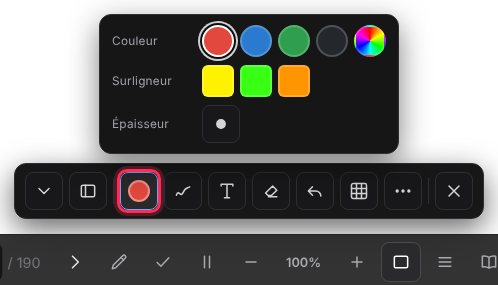
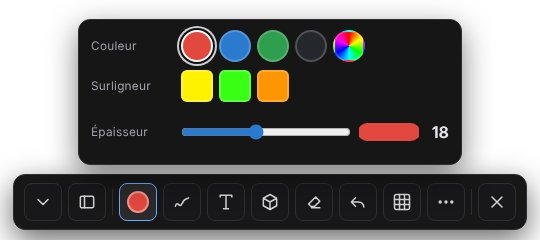
Crayon : activer/désactiver, épaisseur avec une glissière
Claude-Session: https://claude.ai/code/session_0132P7fSy2K8VC3HWdnHumMj

diff --git a/index.html b/index.html
@@ -550,6 +550,7 @@
   .penbar .ppop[hidden]{display:none!important}
   .penbar .prang{display:flex;gap:6px;align-items:center;flex-wrap:wrap}
   .penbar .prang[hidden]{display:none!important}
+  .penbar .plarg{display:flex;align-items:center;gap:8px;flex:1;min-width:260px}.penbar .plarg input{flex:1;min-width:170px;height:34px;accent-color:#2a7bcf;cursor:pointer}.penbar .plarg b{min-width:22px;text-align:right;color:#e4e4e7}
   .penbar .prang>.lab{font-size:.74rem;color:#a1a1aa;min-width:84px;letter-spacing:.02em}
   .penbar .ppop button[data-lab]{gap:6px;padding:0 10px}
   .penbar .ppop button[data-lab]::after{content:attr(data-lab);font-size:.82rem}
@@ -3378,6 +3379,7 @@ function majObjUI(){ const b = $("#objBar"); if (!b) return; b.hidden = !RD.obj;
     if (!(RD.pen || RD.wb) || RD.sim) return;
     c.setPointerCapture(e.pointerId);
     if (RD.eraser){ cur = "erase"; eraseAt(pt(e)); return; }
+    if (RD.crayonOff && !RD.text && !RD.obj){ e.preventDefault(); return; }               /* crayon désactivé : rien ne se dessine */
     if (RD.text || (RD.obj && RD.objTab !== "formes")){ e.preventDefault(); return; }
     const q = pt(e);
     if (RD.obj){ const brut = (r => [(e.clientX - r.left) / r.width, (e.clientY - r.top) / r.height])(c.getBoundingClientRect()), ip = poigneeSous(SELO.s, brut);
@@ -3391,7 +3393,7 @@ function majObjUI(){ const b = $("#objBar"); if (!b) return; b.hidden = !RD.obj;
         if (SELO.s){ SELO.s = null; redrawInk(); majObjUI(); } e.preventDefault(); return; }
       var choisir = hit || obj;     /* forme pas encore choisie : un simple clic la choisit, mais glisser trace une nouvelle forme (ex. une cote qui part du coin d'un rectangle) */
       var raz = !!SELO.s; if (SELO.s){ SELO.s = null; majObjUI(); } }
-    cur = { c:/^hl/.test(RD.color) ? "#000" : RD.color, hl:/^hl/.test(RD.color), hc:/^hl:/.test(RD.color) ? RD.color.slice(3) : null, w:WIDTHS[RD.wIdx], p:[q] };
+    cur = { c:/^hl/.test(RD.color) ? "#000" : RD.color, hl:/^hl/.test(RD.color), hc:/^hl:/.test(RD.color) ? RD.color.slice(3) : null, w:RD.wPx || WIDTHS[RD.wIdx], p:[q] };
     const forme = RD.obj && RD.formeK ? RD.formeK : RD.shape;
     if (forme){ cur.t = forme; cur.p = [q, q]; if (RD.obj && RD.formeK && choisir) cur.choisir = choisir; if (RD.obj && RD.formeK && raz && !choisir) cur.raz = true; if (forme === "bulle") cur.n = strokes().filter(x => x.t === "bulle").length + 1; }
     /* Trait en cours, rapide : on garde une image de tout le reste et, à chaque image, on redessine seulement le trait en cours par-dessus */
@@ -3811,14 +3813,14 @@ $("#tbPg").addEventListener("keydown", e => {
 (function(){
   const bar = $("#penBar"), ref = bar.querySelector(".sep");
   const x = document.createElement("input"); x.type = "color"; x.className = "swx"; x.value = "#ff00aa"; x.title = "Autre couleur"; x.setAttribute("aria-label", "Autre couleur");
-  x.oninput = () => { RD.color = x.value; RD.eraser = false; recolorerSel(); refreshTools(); x.classList.add("on"); };
+  x.oninput = () => { RD.color = x.value; RD.eraser = false; RD.crayonOff = false; recolorerSel(); refreshTools(); x.classList.add("on"); };
   bar.insertBefore(x, ref); RD.swx = x;
 })();
 function recolorerSel(){ const o = typeof SELO !== "undefined" && RD.obj && SELO.s && strokes().includes(SELO.s) ? SELO.s : null; if (!o || /^hl/.test(RD.color) || o.c === RD.color) return; snapInk(); o.c = RD.color; redrawInk(); }   /* l'objet ou la forme choisi prend la couleur du crayon */
-document.querySelectorAll("#penBar .sw").forEach(b => b.onclick = () => { RD.color = b.dataset.c; RD.eraser = false; recolorerSel(); refreshTools(); });
+document.querySelectorAll("#penBar .sw").forEach(b => b.onclick = () => { RD.color = b.dataset.c; RD.eraser = false; RD.crayonOff = false; recolorerSel(); refreshTools(); });
 $("#penW").onclick = () => { RD.wIdx = (RD.wIdx + 1) % WIDTHS.length; majEpaisseur(); };
 function majEpaisseur(){ const c = $("#penW circle"); if (c) c.setAttribute("r", 2.5 + RD.wIdx * 2.5); }
-$("#penS").onclick = () => { const i = SHAPES.indexOf(RD.shape || null); RD.shape = SHAPES[(i + 1) % SHAPES.length]; RD.eraser = false; RD.text = false; refreshTools(); };
+$("#penS").onclick = () => { const i = SHAPES.indexOf(RD.shape || null); RD.shape = SHAPES[(i + 1) % SHAPES.length]; RD.eraser = false; RD.text = false; RD.crayonOff = false; refreshTools(); };
 $("#wbF").onclick = wbFondSuivant; $("#wbP").onclick = () => wbAller(-1); $("#wbN").onclick = () => wbAller(1); $("#wbPlus").onclick = wbNouveau; $("#wbS").onclick = wbEnregistrer;
 [["penW","dot"],["wbHand","main"],["penE","eraser"],["penU","undo"],["penO","objet"],["wbZo","zmoins"],["wbZi","zplus"],["penT","texte"],["penR","redo"],["penC","trash"],["penX","close"],["wbF","fond"],["wbP","prev"],["wbN","next"],["wbPlus","plus"],["wbS","save"]].forEach(([id, n]) => setIcn($("#" + id), n));
 majEpaisseur();
@@ -3865,7 +3867,14 @@ majEpaisseur();
   pc.appendChild(rang("Couleur", [...bar.querySelectorAll(".sw")]));
   pc.appendChild(rang("Surligneur", [...pc.querySelectorAll(".sw.hl")]));
   if (RD.swx) pc.querySelector(".prang").appendChild(RD.swx);
-  pc.appendChild(rang("Épaisseur", [X("penW")]));
+  /* épaisseur : une glissière (1 à 40) avec un aperçu du trait */
+  try { RD.wPx = +localStorage.getItem("penLargeur") || 4; } catch(e){ RD.wPx = 4; }
+  const lg = document.createElement("div"); lg.className = "plarg";
+  lg.innerHTML = '<input type="range" min="1" max="40" step="1" aria-label="Épaisseur du trait"><svg viewBox="0 0 60 44" width="60" height="44" aria-hidden="true"><line x1="8" y1="22" x2="52" y2="22" stroke-linecap="round"/></svg><b></b>';
+  const lgI = lg.querySelector("input"), lgL = lg.querySelector("line"), lgB = lg.querySelector("b");
+  window.majLargeur = () => { const c = RD.color || "#e2483d"; lgI.value = RD.wPx; lgB.textContent = RD.wPx; lgL.setAttribute("stroke-width", Math.min(40, RD.wPx)); lgL.setAttribute("stroke", /^hl:/.test(c) ? c.slice(3) : c); };
+  lgI.addEventListener("input", () => { RD.wPx = +lgI.value; RD.crayonOff = false; try { localStorage.setItem("penLargeur", RD.wPx); } catch(e){} majLargeur(); refreshTools(); });
+  pc.appendChild(rang("Épaisseur", [lg])); majLargeur(); if (X("penW")) X("penW").remove();   /* l'ancien bouton à 3 grosseurs est remplacé par la glissière */
   /* Plus */
   const bp = document.createElement("button"); bp.id = "penPlus"; bp.title = "Plus d'outils : rétablir, tout effacer, zoom, tableaux, enregistrer"; bp.setAttribute("aria-label", "Plus d'outils"); bp.innerHTML = dots;
   const pp = pop("popPlus");
@@ -3886,14 +3895,18 @@ majEpaisseur();
   const basculer = (p, b) => { const ouvrir = p.hidden; fermer(); if (ouvrir){ p.hidden = false; b.classList.add("open"); } };
   /* toucher « Couleur » ramène toujours au crayon (quitte l'efface, le texte ou les objets) */
   bc.onclick = () => { const garde = RD.obj && (RD.formeK || (SELO.s && strokes().includes(SELO.s)));
-    if (RD.eraser || RD.text || (RD.obj && !garde)){ RD.eraser = false; RD.text = false; if (!garde) RD.obj = false; refreshTools(); } basculer(pc, bc); };   /* les formes gardent la palette : on change seulement leur couleur */ bp.onclick = () => basculer(pp, bp);
+    if (garde){ basculer(pc, bc); return; }                                                 /* un objet choisi : on change seulement sa couleur */
+    const actif = !RD.eraser && !RD.text && !RD.obj && !RD.crayonOff;
+    if (actif){ RD.crayonOff = true; fermer(); refreshTools(); return; }                     /* crayon actif : on le désactive */
+    RD.eraser = false; RD.text = false; RD.obj = false; RD.crayonOff = false; refreshTools(); fermer(); pc.hidden = false; bc.classList.add("open"); majLargeur(); };   /* on l'active et les couleurs s'ouvrent */   /* les formes gardent la palette : on change seulement leur couleur */ bp.onclick = () => basculer(pp, bp);
   pc.querySelectorAll(".sw").forEach(b => b.addEventListener("click", () => setTimeout(fermer, 120)));
   document.addEventListener("pointerdown", e => { if (bar.contains(e.target) || (pc.hidden && pp.hidden)) return; fermer();
     if (e.target.id === "inkCanvas"){ e.stopPropagation(); e.preventDefault(); } }, true);   /* le clic qui ferme un menu ne dessine pas de point */
   document.addEventListener("keydown", e => { if (e.key === "Escape") fermer(); });
   window.majCouleurCrayon = () => { const c = RD.color || "#e2483d", hl = /^hl:/.test(c), cur = bc.querySelector(".pcur");
     const v = hl ? c.slice(3) : (RD.swx && RD.swx.classList.contains("on") ? RD.swx.value : (c === "#24282c" && wbSombre() ? "#f4f1ea" : c));
-    cur.style.setProperty("--pc", v); cur.classList.toggle("hl", hl); bc.classList.toggle("on", !RD.eraser && !RD.text && !RD.obj); };
+    cur.style.setProperty("--pc", v); cur.classList.toggle("hl", hl); bc.classList.toggle("on", !RD.eraser && !RD.text && !RD.obj && !RD.crayonOff);
+    bc.title = RD.crayonOff ? "Crayon désactivé : touche pour écrire (couleur et épaisseur)" : "Crayon : touche pour le désactiver"; try { majLargeur(); } catch(e){} };
   const rt = refreshTools; refreshTools = function(){ rt.apply(this, arguments); try { majCouleurCrayon(); } catch(e){} };
   majCouleurCrayon();
 })();

diff --git a/CLAUDE.md b/CLAUDE.md
@@ -65,6 +65,7 @@
   le même double-clic marche sur les objets iso (nom sous l'objet, `etiquette`) et électriques (repère `lb`), et sur toute forme (étiquette au centre). Les objets gardent `s.c` = couleur du crayon (`recolorerSel` quand on choisit une couleur avec un objet sélectionné).
   Attention : `attach()` ne doit pas faire `win.focus()` pendant qu'une case est en saisie (le tableau blanc vide se rebranchait et volait le focus).
   offertes aussi sur les pages de livre. Iso (`OBJETS`) et Électricité (`ELEC`) : tableau blanc seulement; choisir l'onglet change le fond (iso / quadrillé).
+- **Crayon** : le rond de couleur `#penCol` active/désactive le crayon (`RD.crayonOff`; l'activer ouvre `#popCol`). Épaisseur = glissière 1–40 (`RD.wPx`, `localStorage.penLargeur`, `majLargeur`); l'ancien bouton `#penW` (3 grosseurs) est retiré.
 - **Tableau blanc / crayon** : traits normalisés dans `INKS[inkKey()]`, `REFS`, `recalerWb()`; pendant un trait, ne jamais appeler `redrawInk()` à chaque mouvement (trop lent) : trait libre dessiné par bouts (`dessinerEnCours`), formes et surligneur sur une copie `fond`, gomme via `redrawBientot()` (une fois par image); fonds blanc/quadrillé/iso/…;
   tableaux gardés (`tableauxSauves`), « Mes schémas » (`mesSchemas`, export `.schema.json` type `schema-pavillon`).
 - **Schémas électriques en échelle** : catalogue `ELEC`/`ELEC_CAT`, `dessinerElec`, fils `{t:"ligne", fil:true}`,
